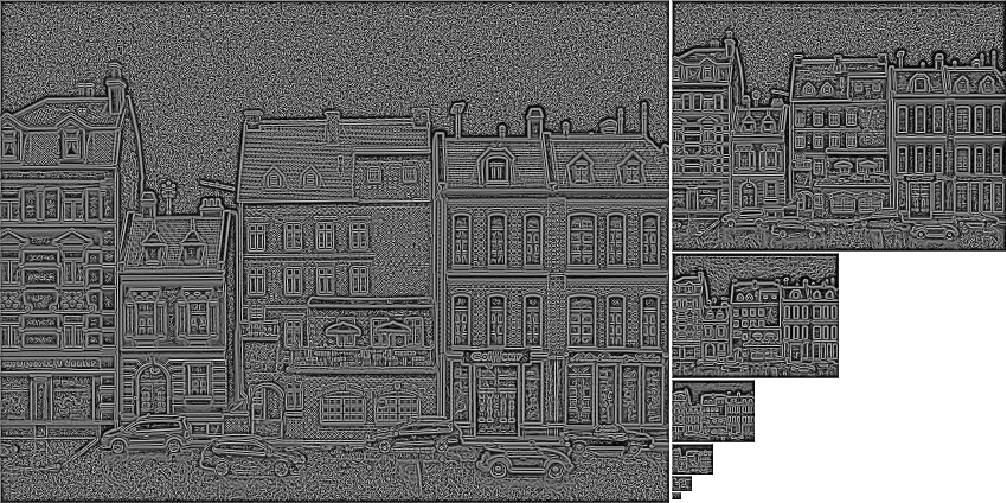
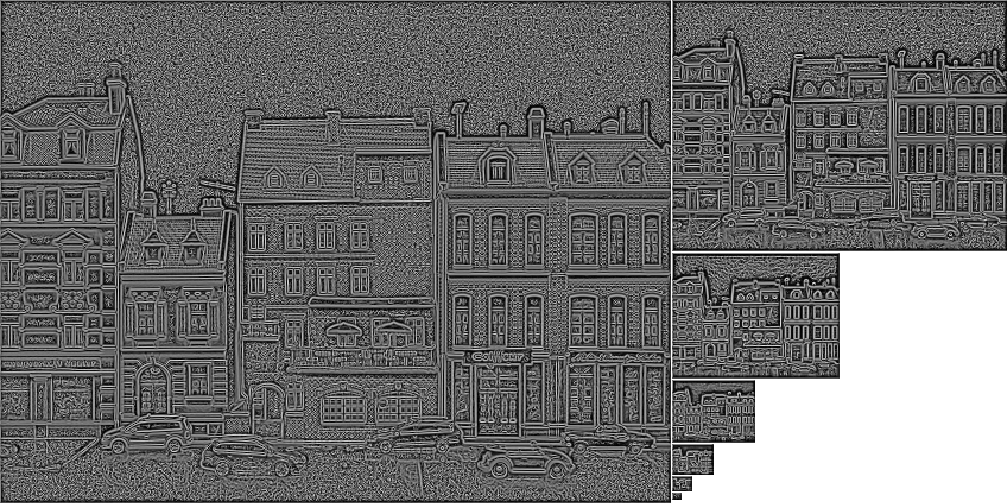
Scale space figures and fixed bug in some grid layouts

diff --git a/src/DTU/optimizeParams/runParameterStudySi.m b/src/DTU/optimizeParams/runParameterStudySi.m
@@ -20,40 +20,39 @@ method = methodStruct( ...
    'rescale',1/2,...
    'gridType','concentric polar',...
    'gridSize',[12 2],...
-   'gridRadius',10,...
+   'gridRadius',11.5,...
    'centerFilter','gaussian',...
-   'centerSigma',[1.5 1.5],...
+   'centerSigma',[2 2],...
    'cellFilter','polar gaussian',...
-   'cellSigma',[1 1],...
+   'cellSigma',[0.9 0.9],...
    'normType','pixel',...
-   'normSigma',[2 2],...
-   'binSigma',1.2,...
+   'normSigma',[2.6 2.6],...
+   'binSigma',1.9,...
    'binCount',9,...
    'cellNormStrategy',0},...
    matchCache,{'co-'});
 
 %% Grid optimization
-gs = [24 1; 20 1; 16 1; 12 1; 8 1; ...
-    12 2; 10 2; 8 2; 6 2; ...
+gs = [12 2; 10 2; 8 2; 6 2; ...
     8 3; 6 3; 6 4];
 n = size(gs,1);
-gsRings = gs(gs(:,2) > 1,:);
-nRings = size(gsRings,1);
+gsLog = gs(gs(:,2) < 3,:);
+nLog = size(gsLog,1);
 
 gridTypes = {};
 gridSizes = {};
 cellFilters = {};
 
 % polar grid, polar gaussian filter
-idx = numel(gridTypes) + (1:nRings);
+idx = numel(gridTypes) + (1:n);
 gridTypes(idx) = {'polar'};
-gridSizes(idx) = mat2cell(gsRings,ones(nRings,1),2);
+gridSizes(idx) = mat2cell(gs,ones(n,1),2);
 cellFilters(idx) = {'polar gaussian'};
 
 % concentric polar grid, polar gaussian filter
-idx = numel(gridTypes) + (1:nRings);
+idx = numel(gridTypes) + (1:n);
 gridTypes(idx) = {'concentric polar'};
-gridSizes(idx) = mat2cell(gsRings,ones(nRings,1),2);
+gridSizes(idx) = mat2cell(gs,ones(n,1),2);
 cellFilters(idx) = {'polar gaussian'};
 
 % polar central grid, polar gaussian filter
@@ -63,21 +62,21 @@ gridSizes(idx) = mat2cell(gs,ones(n,1),2);
 cellFilters(idx) = {'polar gaussian'};
 
 % concentric polar central grid, polar gaussian filter
-idx = numel(gridTypes) + (1:nRings);
-gridTypes(idx) = {'concentric polar central'};
-gridSizes(idx) = mat2cell(gsRings,ones(nRings,1),2);
-cellFilters(idx) = {'polar gaussian'};
-
-% log-polar grid, polar gaussian filter
 idx = numel(gridTypes) + (1:n);
-gridTypes(idx) = {'log-polar'};
+gridTypes(idx) = {'concentric polar central'};
 gridSizes(idx) = mat2cell(gs,ones(n,1),2);
 cellFilters(idx) = {'polar gaussian'};
 
 % log-polar grid, gaussian filter
-idx = numel(gridTypes) + (1:n);
+idx = numel(gridTypes) + (1:nLog);
 gridTypes(idx) = {'log-polar'};
-gridSizes(idx) = mat2cell(gs,ones(n,1),2);
+gridSizes(idx) = mat2cell(gsLog,ones(nLog,1),2);
+cellFilters(idx) = {'gaussian'};
+
+% concentric log-polar grid, gaussian filter
+idx = numel(gridTypes) + (1:nLog);
+gridTypes(idx) = {'concentric log-polar'};
+gridSizes(idx) = mat2cell(gsLog,ones(nLog,1),2);
 cellFilters(idx) = {'gaussian'};
 
 disp(['Total number of grid parameters to test: ' num2str(numel(gridTypes))]);
@@ -93,7 +92,7 @@ for i = 1:iters
     diary off
     method = enumOptimizeParameter(setNum,method,diaryFile,'gridType',gridTypes,'gridSize',gridSizes,'cellFilter',cellFilters);
     method = zoomOptimizeParameter(setNum,method,diaryFile,'gridRadius', ...
-        (2.5:2.5:20)',(-1:0.5:1)');
+        (5:2.5:20)',(-1:0.5:1)');
     method = modifyDescriptor(method,'centerFilter','gaussian');
     method = zoomOptimizeParameter(setNum,method,diaryFile,'centerSigma', ...
         repmat((0.5:0.5:2)',[1 2]),repmat((-0.2:0.1:0.2)',[1 2]));

diff --git a/src/DTU/optimizeParams/runParameterStudyGo.m b/src/DTU/optimizeParams/runParameterStudyGo.m
@@ -22,38 +22,37 @@ method = methodStruct( ...
    'gridSize',[12 2],...
    'gridRadius',10,...
    'centerFilter','gaussian',...
-   'centerSigma',[1.5 1.5],...
+   'centerSigma',[1.3 1.3],...
    'cellFilter','polar gaussian',...
    'cellSigma',[1 1],...
    'normType','pixel',...
-   'normSigma',[2 2],...
+   'normSigma',[1.4 1.4],...
    'binSigma',1.2,...
-   'binCount',8,...
+   'binCount',12,...
    'cellNormStrategy',0},...
    matchCache,{'co-'});
 
 %% Grid optimization
-gs = [24 1; 20 1; 16 1; 12 1; 8 1; ...
-    12 2; 10 2; 8 2; 6 2; ...
+gs = [12 2; 10 2; 8 2; 6 2; ...
     8 3; 6 3; 6 4];
 n = size(gs,1);
-gsRings = gs(gs(:,2) > 1,:);
-nRings = size(gsRings,1);
+gsLog = gs(gs(:,2) < 3,:);
+nLog = size(gsLog,1);
 
 gridTypes = {};
 gridSizes = {};
 cellFilters = {};
 
 % polar grid, polar gaussian filter
-idx = numel(gridTypes) + (1:nRings);
+idx = numel(gridTypes) + (1:n);
 gridTypes(idx) = {'polar'};
-gridSizes(idx) = mat2cell(gsRings,ones(nRings,1),2);
+gridSizes(idx) = mat2cell(gs,ones(n,1),2);
 cellFilters(idx) = {'polar gaussian'};
 
 % concentric polar grid, polar gaussian filter
-idx = numel(gridTypes) + (1:nRings);
+idx = numel(gridTypes) + (1:n);
 gridTypes(idx) = {'concentric polar'};
-gridSizes(idx) = mat2cell(gsRings,ones(nRings,1),2);
+gridSizes(idx) = mat2cell(gs,ones(n,1),2);
 cellFilters(idx) = {'polar gaussian'};
 
 % polar central grid, polar gaussian filter
@@ -63,21 +62,21 @@ gridSizes(idx) = mat2cell(gs,ones(n,1),2);
 cellFilters(idx) = {'polar gaussian'};
 
 % concentric polar central grid, polar gaussian filter
-idx = numel(gridTypes) + (1:nRings);
-gridTypes(idx) = {'concentric polar central'};
-gridSizes(idx) = mat2cell(gsRings,ones(nRings,1),2);
-cellFilters(idx) = {'polar gaussian'};
-
-% log-polar grid, polar gaussian filter
 idx = numel(gridTypes) + (1:n);
-gridTypes(idx) = {'log-polar'};
+gridTypes(idx) = {'concentric polar central'};
 gridSizes(idx) = mat2cell(gs,ones(n,1),2);
 cellFilters(idx) = {'polar gaussian'};
 
 % log-polar grid, gaussian filter
-idx = numel(gridTypes) + (1:n);
+idx = numel(gridTypes) + (1:nLog);
 gridTypes(idx) = {'log-polar'};
-gridSizes(idx) = mat2cell(gs,ones(n,1),2);
+gridSizes(idx) = mat2cell(gsLog,ones(nLog,1),2);
+cellFilters(idx) = {'gaussian'};
+
+% concentric log-polar grid, gaussian filter
+idx = numel(gridTypes) + (1:nLog);
+gridTypes(idx) = {'concentric log-polar'};
+gridSizes(idx) = mat2cell(gsLog,ones(nLog,1),2);
 cellFilters(idx) = {'gaussian'};
 
 disp(['Total number of grid parameters to test: ' num2str(numel(gridTypes))]);
@@ -93,7 +92,7 @@ for i = 1:iters
     diary off
     method = enumOptimizeParameter(setNum,method,diaryFile,'gridType',gridTypes,'gridSize',gridSizes,'cellFilter',cellFilters);
     method = zoomOptimizeParameter(setNum,method,diaryFile,'gridRadius', ...
-        (2.5:2.5:20)',(-1:0.5:1)');
+        (5:2.5:20)',(-1:0.5:1)');
     method = modifyDescriptor(method,'centerFilter','gaussian');
     method = zoomOptimizeParameter(setNum,method,diaryFile,'centerSigma', ...
         repmat((0.5:0.5:2)',[1 2]),repmat((-0.2:0.1:0.2)',[1 2]));

diff --git a/src/cellHist/createCellOffsets.m b/src/cellHist/createCellOffsets.m
@@ -4,10 +4,11 @@ function [c, cPol, cellSize] = createCellOffsets(type,gn,gr)
 t = pi/gn(1);
 switch type
     case 'square'
-        d = 2*gr ./ (gn-1);
-        [meshX,meshY] = meshgrid(-gr(1):d(1):gr(1),-gr(2):d(2):gr(2));
+        d = 2*gr ./ gn;
+        r = (gn-1)/2;
+        [meshX,meshY] = meshgrid(d(1)*(-r(1):r(1)),d(2)*(-r(2):r(2)));
         c = [meshX(:) meshY(:)];
-        cellSize = ones(size(c,1),1);
+        cellSize = ones(size(c,1),1) / (gn(2));
     case 'polar'
         a = 2*t * (1:gn(1)) + t;
         d = gr * ((1:gn(2))-1/2) / gn(2);
@@ -15,17 +16,17 @@ switch type
         cellSize = ones(size(c,1),1) / (2*gn(2));
     case 'polar central'
         a = 2*t * (1:gn(1)) + t;
-        d = gr * (1:gn(2)) / gn(2);
+        d = gr * (1:gn(2)) / (gn(2)+1/2);
         c = [0 0; polarGrid(a,d,0)];
         cellSize = ones(size(c,1),1) / (2*gn(2)+1);
     case 'concentric polar'
         a = 2*t * (1:gn(1)) + t;
-        d = gr * (1:gn(2)) / gn(2);
+        d = gr * ((1:gn(2))-1/2) / gn(2);
         c = polarGrid(a,d,t);
         cellSize = ones(size(c,1),1) / (2*gn(2));
     case 'concentric polar central'
         a = 2*t * (1:gn(1)) + t;
-        d = gr * ((1:gn(2))-1/2) / gn(2);
+        d = gr * (1:gn(2)) / (gn(2)+1/2);
         c = [0 0; polarGrid(a,d,t)];
         cellSize = ones(size(c,1),1) / (2*gn(2)+1);
     case 'log-polar'

diff --git a/src/figures/visualizeScaleSpaces.m b/src/figures/visualizeScaleSpaces.m
@@ -1,4 +1,4 @@
-function I = visualizeScaleSpaces(S,scales,range,border,P,validP)
+function Isize = visualizeScaleSpaces(S,scales,range,border,P,validP)
 %VISUALIZESCALESPACES Summary of this function goes here
 %   Detailed explanation goes here
 
@@ -13,21 +13,23 @@ S = S(idx);
 h = cellfun(@(x) size(x,1),S);
 w = cellfun(@(x) size(x,2),S);
 
-I = ones(h(1)-1,w(1)+1+w(2)) * border;
+I = ones(h(1)-1,w(1)+w(2)-1) * border;
+Isize = size(I);
 
-offset = [[0; 0; cumsum(h(2:end-1))'] [0; repmat(w(1)+1,numel(S)-1,1)]];
+offset = [[0; 0; cumsum(h(2:end-1))'] [0; repmat(w(1),numel(S)-1,1)]];
 
 for i = 1:numel(S)
     I(offset(i,1)+(1:h(i)-1),offset(i,2)+(1:w(i)-1)) = S{i}(1:end-1,1:end-1);
 end
 
 imshow(I,range)
+hold on
 
 for i = 1:numel(S)
     PiValid = P(P(:,3) == idx(i) & validP,:);
-    drawCircle(PiValid(:,1)+offset(i,2),PiValid(:,2)+offset(i,1),1,'g');
+    drawCircle(PiValid(:,1)+offset(i,2),PiValid(:,2)+offset(i,1),1/2,'g');
     PiInvalid = P(P(:,3) == idx(i) & ~validP,:);
-    drawCircle(PiInvalid(:,1)+offset(i,2),PiInvalid(:,2)+offset(i,1),1,'r');
+    drawCircle(PiInvalid(:,1)+offset(i,2),PiInvalid(:,2)+offset(i,1),1/2,'r');
 end
 
 end

diff --git a/src/figures/runScaleSpaceFigures.m b/src/figures/runScaleSpaceFigures.m
@@ -4,25 +4,31 @@ load('cellHistExample')
 
 figure
 visualizeScaleSpaces({L.none},scales,[0 1],1,P,validP);
-path = '../report/img/cellHistScaleSpacesP.png';
-saveas(gcf,path)
-cropPng(path)
+% path = '../report/img/cellHistScaleSpacesP.png';
+% saveas(gcf,path), cropPng(path)
 
 figure
 visualizeScaleSpaces(Vscales,scales,[-pi pi],-0.7*pi);
 colormap('hsv')
 path = '../report/img/cellHistScaleSpacesV.png';
-saveas(gcf,path)
-cropPng(path)
+saveas(gcf,path), cropPng(path)
 
 figure
 visualizeScaleSpaces(Mscales,scales,[0 0.4],1);
 path = '../report/img/cellHistScaleSpacesM.png';
-saveas(gcf,path)
-cropPng(path)
+saveas(gcf,path), cropPng(path)
 
 figure
 visualizeScaleSpaces(MscalesNorm,scales,[],max(M));
 path = '../report/img/cellHistScaleSpacesMnorm.png';
-saveas(gcf,path)
-cropPng(path)
+saveas(gcf,path), cropPng(path)
+
+figure
+visualizeScaleSpaces(vector2cells(maskC,Isizes),scales,[0 1],1)
+path = '../report/img/cellHistScaleSpacesMask.png';
+saveas(gcf,path), cropPng(path)
+
+figure
+visualizeScaleSpaces(vector2cells(B(:,1),Isizes),scales,[],max(B(:)))
+path = '../report/img/cellHistScaleSpacesBin1.png';
+saveas(gcf,path), cropPng(path)

diff --git a/src/DTU/runPlotAnalyseMatches.m b/src/DTU/runPlotAnalyseMatches.m
@@ -17,7 +17,7 @@ method = methodStruct( ...
    'colour','gray',...
    'contentType','si',...
    'magnitudeType','c',...
-   'rescale',1/2,...
+   'rescale',0.5,...
    'gridType','log-polar',...
    'gridSize',[8 2],...
    'gridRadius',10,...

diff --git a/src/cellHist/runCreateCellOffsets.m b/src/cellHist/runCreateCellOffsets.m
@@ -1,7 +1,7 @@
 clc, clear all
 
-gridType = 'concentric log-polar';
-gridSize = [30 30];
+gridType = 'polar';
+gridSize = [6 4];
 gridRadius = 50;
 cellSigma = [50 50];
 % cellSigma = [pi/gridSize(1) gridSpacing/2];
